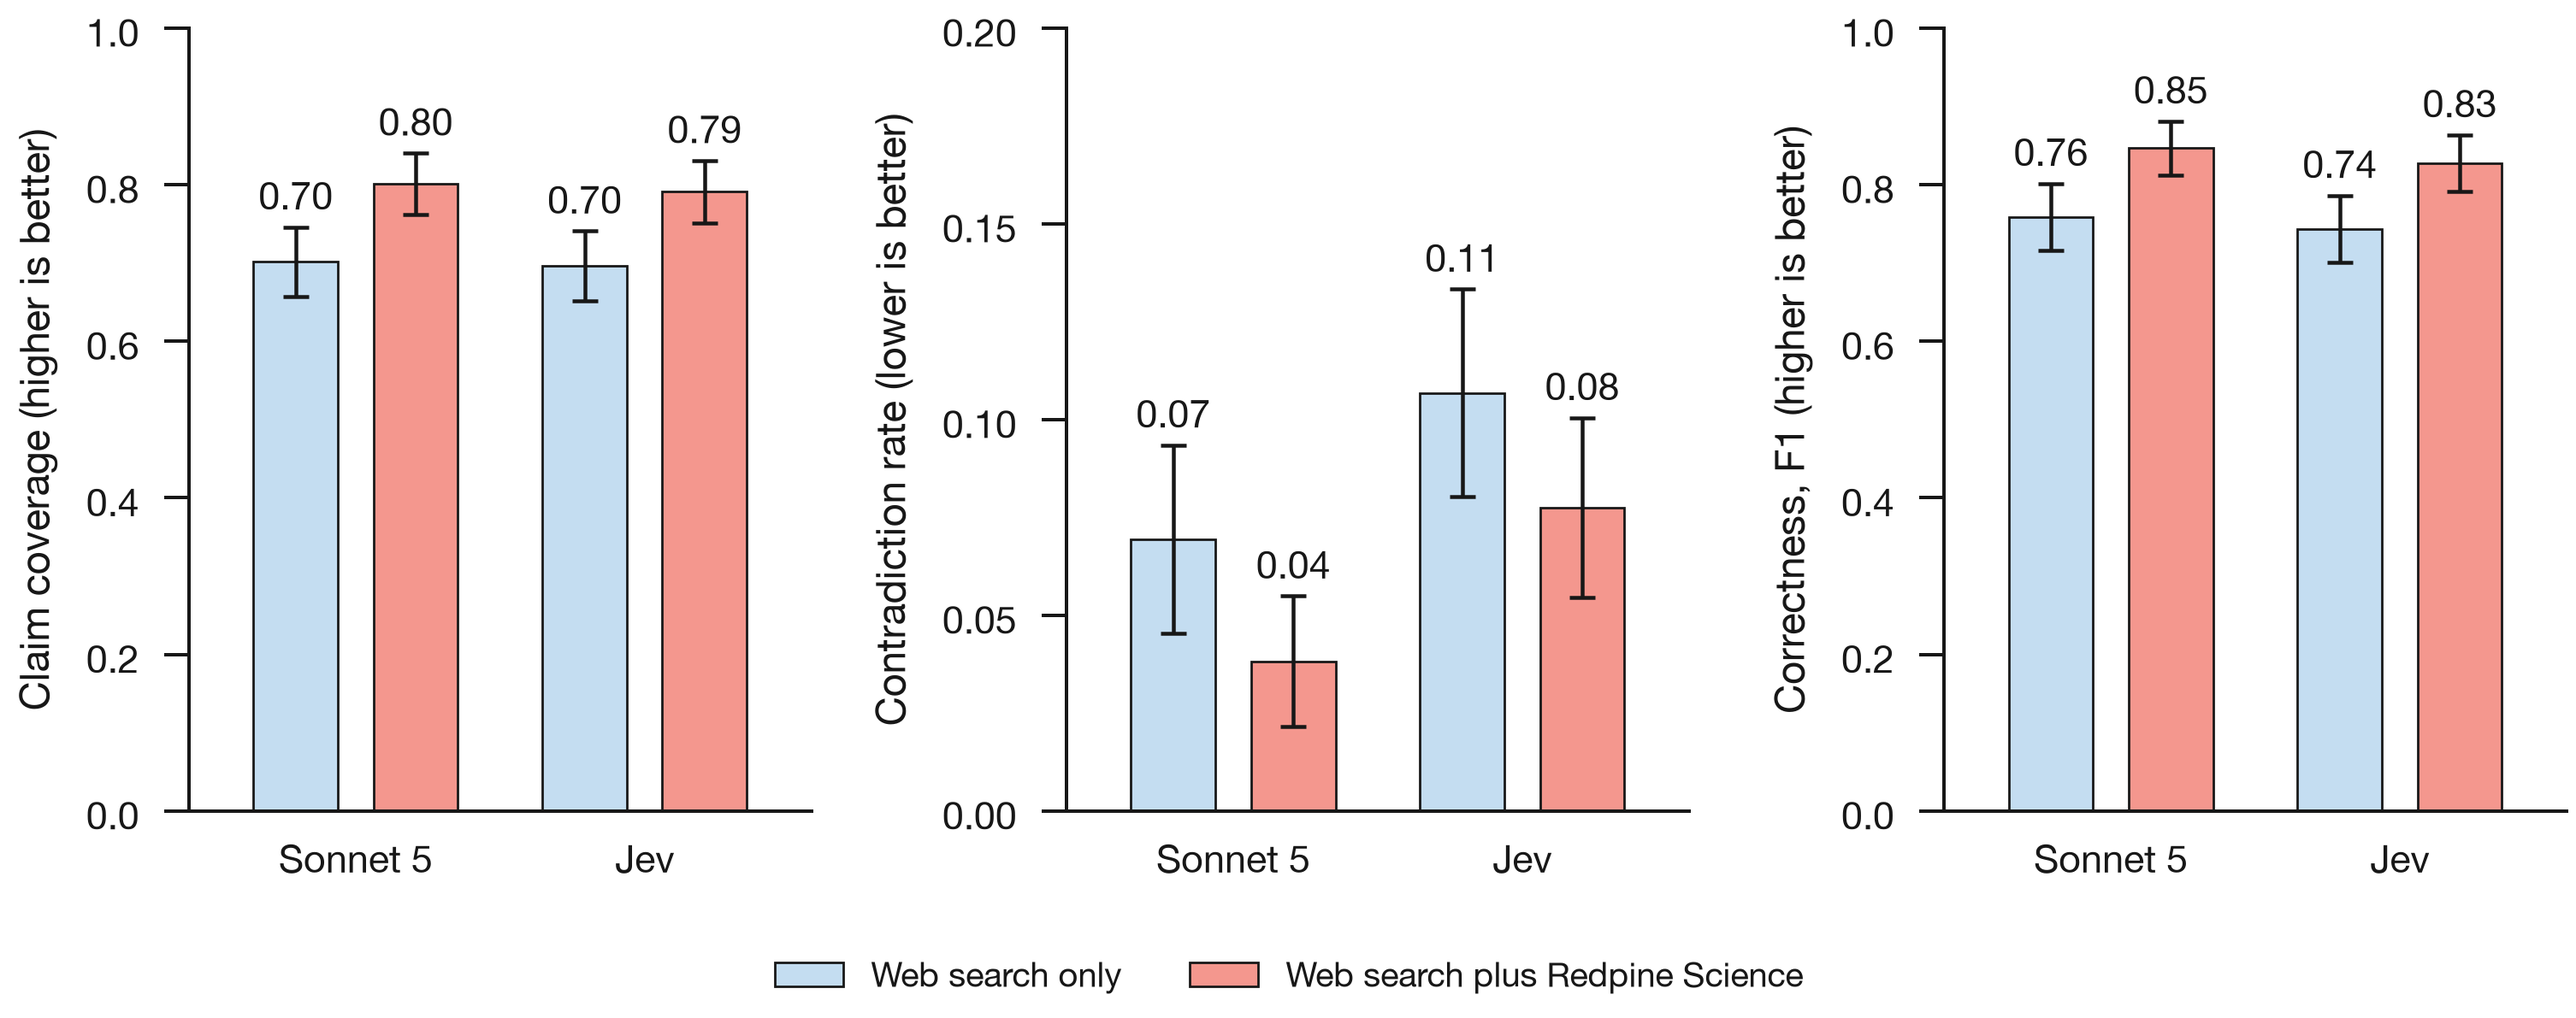
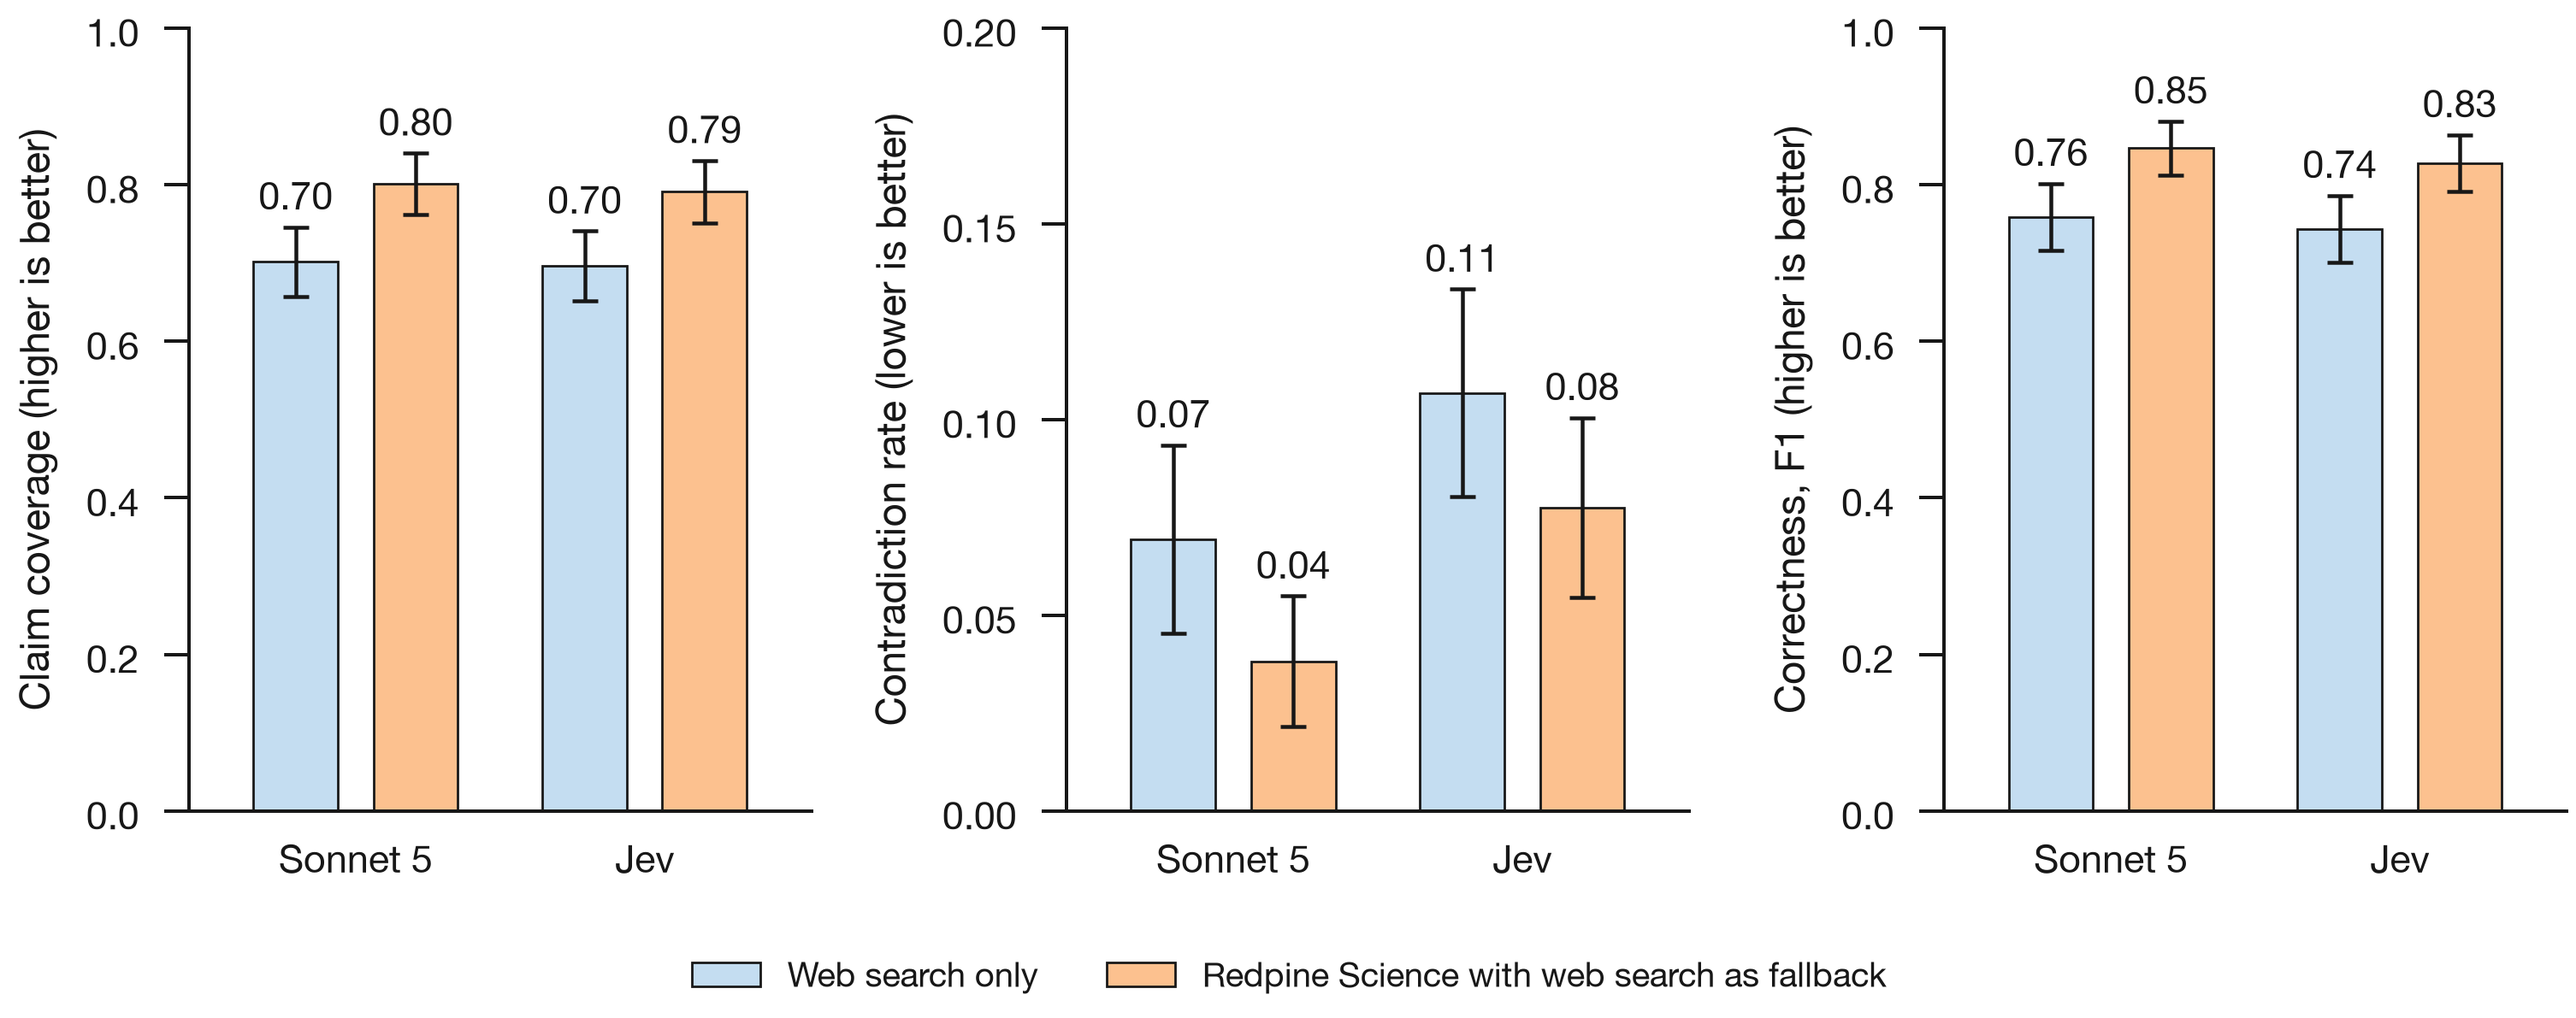
fix(figures): name the arm Redpine Science with web search as fallback in quadrant two

diff --git a/figures/fig_quadrant2_metrics.py b/figures/fig_quadrant2_metrics.py
@@ -6,7 +6,8 @@ subplots, for the same reason as fig_quadrant4_combined.py: the figure is
 authored at the true text width so LaTeX never rescales the type.
 
 Data provenance. The 179 expert-validated questions, both arms answered by
-Claude Opus 5 (web search only; web search plus Redpine Science), judged per
+Claude Opus 5 (web search only; Redpine Science with web search as fallback),
+judged per
 gold claim. Two judges over the same stored answers:
 
     Sonnet 5 on Bedrock, pass A          the pre-registered judge
@@ -50,24 +51,27 @@ OUT = Path(__file__).resolve().parent / "quadrant2_metrics"
 # Per judge, per metric, per arm: (mean, 95 percent t half-width), n = 179.
 DATA = {
     "sonnet": {
-        "claim_coverage":     {"web": (0.7016, 0.0444), "redpine": (0.8012, 0.0393)},
-        "contradiction_rate": {"web": (0.0694, 0.0241), "redpine": (0.0382, 0.0167)},
-        "correctness":        {"web": (0.7591, 0.0426), "redpine": (0.8467, 0.0346)},
+        "claim_coverage":     {"web": (0.7016, 0.0444), "redpine_first": (0.8012, 0.0393)},
+        "contradiction_rate": {"web": (0.0694, 0.0241), "redpine_first": (0.0382, 0.0167)},
+        "correctness":        {"web": (0.7591, 0.0426), "redpine_first": (0.8467, 0.0346)},
     },
     "jev": {
-        "claim_coverage":     {"web": (0.6962, 0.0446), "redpine": (0.7912, 0.0396)},
-        "contradiction_rate": {"web": (0.1068, 0.0265), "redpine": (0.0775, 0.0230)},
-        "correctness":        {"web": (0.7436, 0.0427), "redpine": (0.8277, 0.0361)},
+        "claim_coverage":     {"web": (0.6962, 0.0446), "redpine_first": (0.7912, 0.0396)},
+        "contradiction_rate": {"web": (0.1068, 0.0265), "redpine_first": (0.0775, 0.0230)},
+        "correctness":        {"web": (0.7436, 0.0427), "redpine_first": (0.8277, 0.0361)},
     },
 }
 
 JUDGES = ["sonnet", "jev"]
 JUDGE_LABELS = {"sonnet": "Sonnet 5", "jev": "Jev"}
 
-# Web search only is the comparison arm; web search plus Redpine Science is
-# Redpine's own result and takes the Crimson role, the only red in the chart.
-ARMS = ["web", "redpine"]
-ARM_LABELS = {"web": "Web search only", "redpine": "Web search plus Redpine Science"}
+# Web search only is the comparison arm. Redpine Science with web search as
+# fallback is the same arm quadrant one calls "Redpine Science then web", so it
+# takes that role's colour (redpine_first, Orange) and a colour keeps meaning
+# the same thing across the report.
+ARMS = ["web", "redpine_first"]
+ARM_LABELS = {"web": "Web search only",
+              "redpine_first": "Redpine Science with web search as fallback"}
 
 METRICS = [
     ("claim_coverage", "Claim coverage (higher is better)", (0, 1.0), [0, 0.2, 0.4, 0.6, 0.8, 1.0]),
@@ -137,7 +141,7 @@ def main():
     for judge in JUDGES:
         print(JUDGE_LABELS[judge])
         for metric, _, _, _ in METRICS:
-            web, rp = DATA[judge][metric]["web"], DATA[judge][metric]["redpine"]
+            web, rp = DATA[judge][metric]["web"], DATA[judge][metric]["redpine_first"]
             print(f"  {metric:18} web {web[0]:.3f} +/- {web[1]:.3f}   redpine {rp[0]:.3f} +/- {rp[1]:.3f}"
                   f"   gap {rp[0] - web[0]:+.3f}")
     print("wrote", out)

diff --git a/main.tex b/main.tex
@@ -501,7 +501,7 @@ memory, and quadrants three and four measure the retrieved papers directly.
 \end{figure}
 
 \begin{table}[htbp]
-\caption{Claim coverage difference, web search plus Redpine Science minus web search
+\caption{Claim coverage difference, Redpine Science with web search as fallback minus web search
 only, by track and judge. Paired 95 percent t intervals; n is the number of questions.}
 \label{tab:quadrant-two-tracks}
 \begin{tabular}{@{}lrcc@{}}
